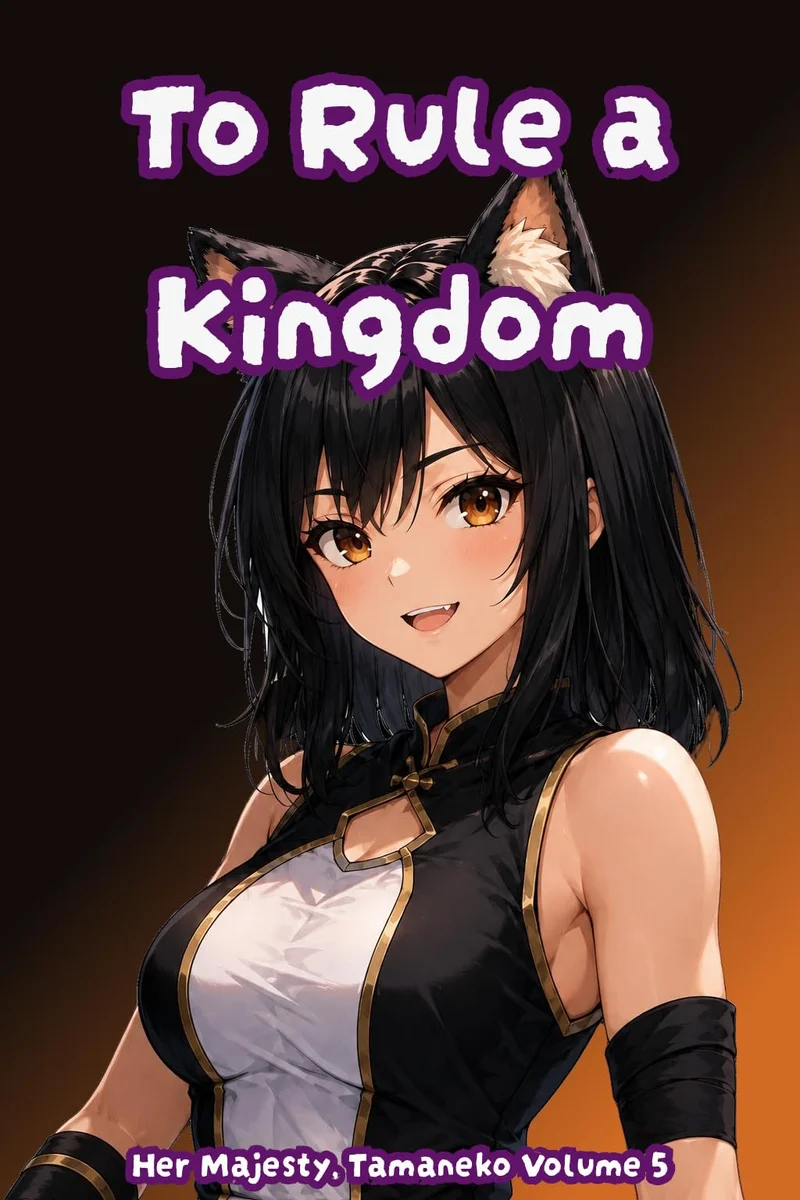
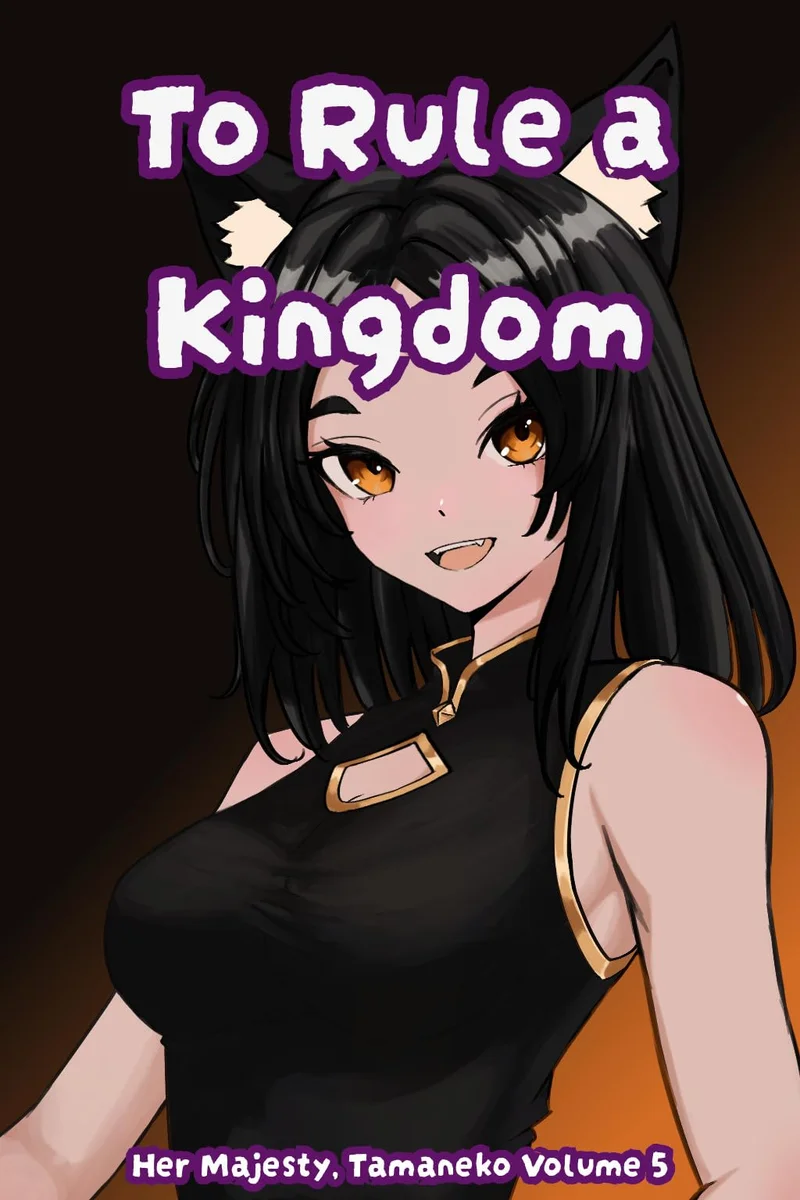
content(books): resync the catalog copy and cover art from KDP
The live catalog now matches the Amazon listings exactly.

- Refresh every book's title, description and blurb from its KDP product
  page. The KDP listing is the source of record for catalog copy, so the
  hand-edited blurbs were overwritten on purpose.
- Replace the two covers that had drifted from the live art
  (to-rule-a-kingdom Volume 5, vulpine-mastermind Volume 2). The other ten
  already matched byte for byte.
- Regenerate rss.xml / sitemap.xml, which also drops the dead
  the-bedrock and the-tyrants-rose routes and adds the-foundation.
- tools/sync-kdp-books.py: add --covers-only (refresh art without touching
  copy or links), and stop --dry from writing cover files. --dry used to
  stage nothing, so a "report only" run overwrote real art in place.
- Note Buried Truths (B0FDQ397YW / B0FDQMRWKR) as never-add: it is the
  retired volume-2 listing and is deliberately out of the catalog.

Verified: 12/12 books served from /content with cover URLs fingerprinted to
the bytes on disk; served bytes md5-match disk; /books, /book and / all 200.

diff --git a/tools/sync-kdp-books.py b/tools/sync-kdp-books.py
@@ -9,8 +9,14 @@ it straight off the product pages instead.
 
 Usage
 -----
-    python3 tools/sync-kdp-books.py --dry        # report, write nothing
-    python3 tools/sync-kdp-books.py             # fetch + update DB + covers
+    python3 tools/sync-kdp-books.py --dry           # report, write nothing
+    python3 tools/sync-kdp-books.py --covers-only   # refresh cover art, leave the copy alone
+    python3 tools/sync-kdp-books.py                # fetch + update DB + covers
+
+Note: a full run overwrites each book's `description`/`blurb`/`title` with the
+KDP listing. That is intentional — the Amazon listing is the source of record
+for the catalog. Use `--covers-only` when you want the art refreshed without
+touching copy or links.
 
 Requires Node.js on PATH (the DB write reuses database.js so the schema,
 field mapping and operation queue stay identical to the admin panel).
@@ -24,10 +30,16 @@ import argparse
 import json
 import os
 import re
+import shutil
 import subprocess
 import sys
 import tempfile
 from html import unescape
+
+
+def read_bytes(path: str) -> bytes:
+    with open(path, "rb") as fh:
+        return fh.read()
 
 SITE_ROOT = os.path.dirname(os.path.dirname(os.path.abspath(__file__)))
 COVERS_DIR = os.path.join(SITE_ROOT, "public", "covers")
@@ -39,6 +51,11 @@ UA = ("Mozilla/5.0 (X11; Linux x86_64) AppleWebKit/537.36 "
 # ---------------------------------------------------------------- catalog ----
 # series_slug is the `series.id` these volumes belong to. Omnibus/standalone
 # entries have series_slug = None.
+#
+# DELIBERATELY ABSENT — never add these:
+#   "Buried Truths" (B0FDQ397YW hardcover / B0FDQMRWKR paperback). It is the
+#   retired volume-2 listing and is NOT part of the site catalog. Xanmal has
+#   said explicitly to never bother with it. Leave it out.
 CATALOG = [
     # Her Majesty, Tamaneko — one KDP ebook per volume
     {"slug": "third-person-tempest", "series": "her-majesty-tamaneko", "volume": 1, "asin": "B0F4RG6P86"},
@@ -221,9 +238,9 @@ const dry = process.env.NEKOJIN_DRY === '1';
 """
 
 
-def convert_cover(src_jpg: str, slug: str) -> str:
+def convert_cover(src_jpg: str, slug: str, out_dir: str | None = None) -> str:
     """Run sharp on the Pi box so cover output matches /upload-cover exactly."""
-    out = os.path.join(COVERS_DIR, f"book-{slug}.webp")
+    out = os.path.join(out_dir or COVERS_DIR, f"book-{slug}.webp")
     script = (
         "const sharp=require(process.env.NEKOJIN_SHARP);"
         "(async()=>{const m=await sharp(process.env.NEKOJIN_SRC).metadata();"
@@ -246,6 +263,8 @@ def convert_cover(src_jpg: str, slug: str) -> str:
 def main() -> int:
     ap = argparse.ArgumentParser()
     ap.add_argument("--dry", action="store_true", help="report only, write nothing")
+    ap.add_argument("--covers-only", action="store_true",
+                    help="refresh cover art only; do not touch title/blurb/description")
     ap.add_argument("--only", help="comma-separated slugs to limit the run")
     ap.add_argument("--skip-covers", action="store_true")
     args = ap.parse_args()
@@ -262,6 +281,15 @@ def main() -> int:
     work = tempfile.mkdtemp(prefix="kdp-sync-")
     payload_items = []
 
+    # --dry and --covers-only must not touch the live cover files while the
+    # product pages are being read: stage them, then install at the end. A
+    # bare --dry run used to rewrite the covers in place, which meant a
+    # "report only" run silently changed real art.
+    staged = os.path.join(work, "covers")
+    stage_covers = args.dry or args.covers_only
+    if stage_covers:
+        os.makedirs(staged, exist_ok=True)
+
     for item in items:
         url = f"https://www.amazon.com/dp/{item['asin']}"
         print(f"→ {item['slug']}  ({item['asin']})")
@@ -277,9 +305,10 @@ def main() -> int:
         if not args.skip_covers and product["image_id"]:
             jpg = os.path.join(work, f"{item['slug']}.jpg")
             if fetch_cover(product["image_id"], jpg):
-                webp = convert_cover(jpg, item["slug"])
+                webp = convert_cover(jpg, item["slug"], staged if stage_covers else None)
                 size = os.path.getsize(webp)
-                print(f"   cover: {os.path.basename(webp)} ({size} bytes, image {product['image_id']})")
+                where = "staged" if stage_covers else "written"
+                print(f"   cover: {os.path.basename(webp)} ({size} bytes, {where}, image {product['image_id']})")
             else:
                 print("   !! cover download failed; keeping existing art", file=sys.stderr)
 
@@ -297,6 +326,24 @@ def main() -> int:
     if not payload_items:
         print("nothing to do", file=sys.stderr)
         return 2
+
+    # --covers-only: install the staged art and stop. No DB write at all, so
+    # the hand-written blurbs stay exactly as they are.
+    if args.covers_only:
+        changed = 0
+        for item in items:
+            src = os.path.join(staged, f"book-{item['slug']}.webp")
+            if not os.path.exists(src):
+                continue
+            dst = os.path.join(COVERS_DIR, f"book-{item['slug']}.webp")
+            if os.path.exists(dst) and read_bytes(src) == read_bytes(dst):
+                print(f"   = {item['slug']}: cover unchanged")
+                continue
+            shutil.copyfile(src, dst)
+            changed += 1
+            print(f"   ✔ {item['slug']}: cover installed -> {os.path.basename(dst)}")
+        print(f"\ncovers-only: {changed} file(s) replaced, DB untouched.")
+        return 0
 
     payload_path = os.path.join(work, "payload.json")
     with open(payload_path, "w") as fh:
